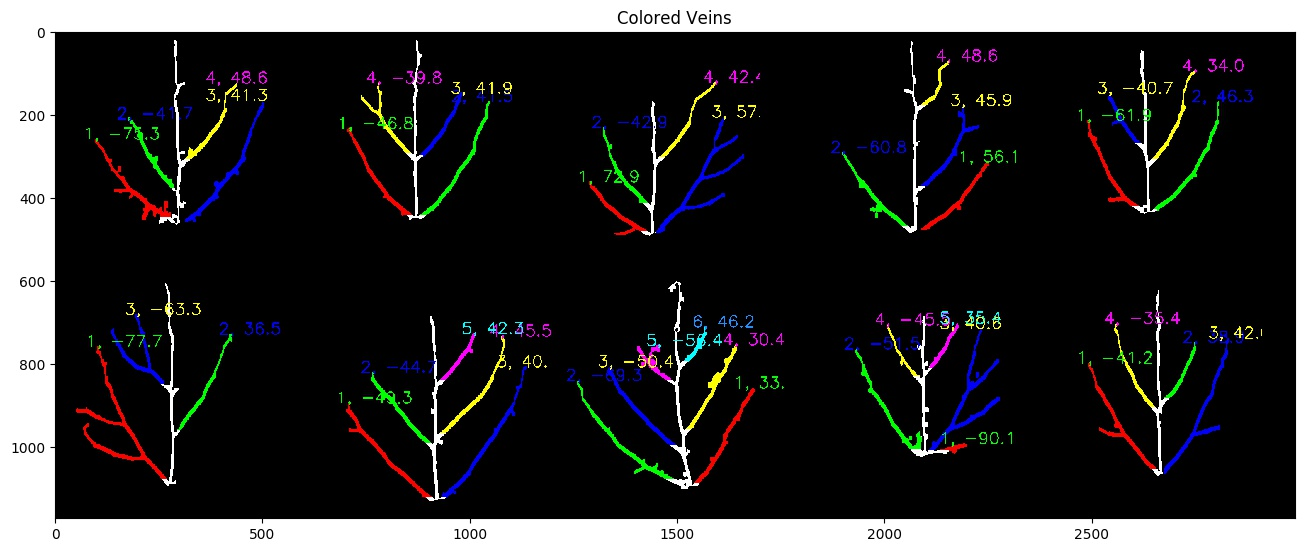
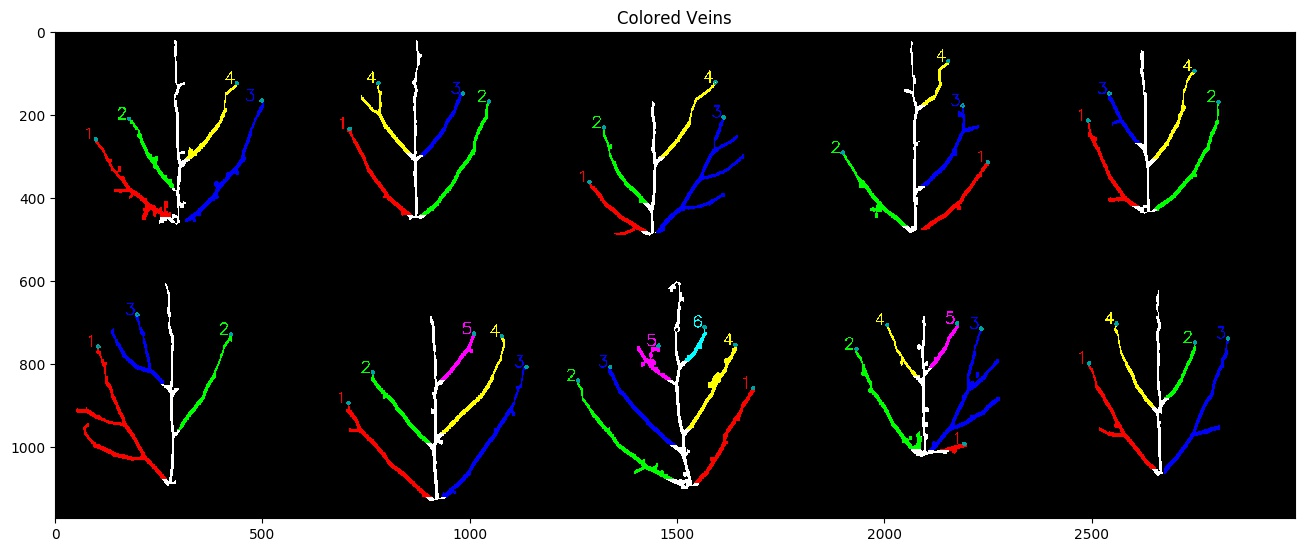
avoid overlapping on showing numbers of sub veins in vein_bgr.jpg

diff --git a/main.py b/main.py
@@ -159,11 +159,32 @@ for i in range(len(edges_canny)):
     # print("text_places:", text_places)
     main_vein_bgr = cv2.cvtColor(main_vein, cv2.COLOR_GRAY2BGR)
     vein_bgr = cv2.add(main_vein_bgr, other_vein_bgr)
+    img_t_avoid_covering = np.zeros_like(vein_bgr)
+    axises_text = []
     for j in range(1, len(pts)):
-        cv2.putText(vein_bgr, str(j)+', '+str(round(angles[j], 1)),
-                    (min(vein_bgr.shape[0]-120, max(10, text_places[j][1]-30)),
-                     min(vein_bgr.shape[1]-10, max(50, text_places[j][0]))),
-                    cv2.FONT_HERSHEY_SIMPLEX, 1.3, color_choice[j], thickness=2)
+        cv2.circle(vein_bgr, (text_places[j][1], text_places[j][0]), 3, (161, 161), thickness=3)
+        axis_text = [min(vein_bgr.shape[0]-25, max(0, text_places[j][1]-30)),
+                     min(vein_bgr.shape[1], max(70, text_places[j][0]))]
+        # the size of '8' is (70, 25), so the distance threshold can be 80
+        for ax in axises_text:
+            # Avoid overlapping
+            if np.linalg.norm(np.asarray(ax) - np.asarray(axis_text)) < 70:
+                if -25 < axis_text[0] - ax[0] < 0 and abs(axis_text[1] - ax[1]) < 70:
+                    # Need moving left
+                    axis_text[0] = max(0, axis_text[0] - (25 - abs(ax[0] - axis_text[0])))
+                if 0 < axis_text[0] - ax[0] < 25 and abs(axis_text[1] - ax[1]) < 70:
+                    # Need moving right
+                    axis_text[0] = min(vein_bgr.shape[1]-25, axis_text[0] + (25 - abs(ax[0] - axis_text[0])))
+                if -70 < axis_text[1] - ax[1] < 0 and abs(axis_text[0] - ax[0]) < 25:
+                    # Need moving down
+                    axis_text[1] = max(70, axis_text[1] + (70 - abs(ax[1] - axis_text[1])))
+                if 0 < axis_text[1] - ax[1] < 70 and abs(axis_text[0] - ax[0]) < 25:
+                    # Need moving up
+                    axis_text[1] = min(vein_bgr.shape[0], axis_text[1] - (70 - abs(ax[1] - axis_text[1])))
+        axises_text.append(axis_text)
+        cv2.putText(vein_bgr, str(j),#+', '+str(round(angles[j], 1)),
+                    tuple(axis_text),
+                    cv2.FONT_HERSHEY_SIMPLEX, 1.3, color_choice[j-1], thickness=2)
     # fig, ax = plt.subplots(1, 1, figsize=(8, 8))
     # ax.imshow(vein_bgr, cmap="gray")
     # plt.title('Colored Veins with Angles')
